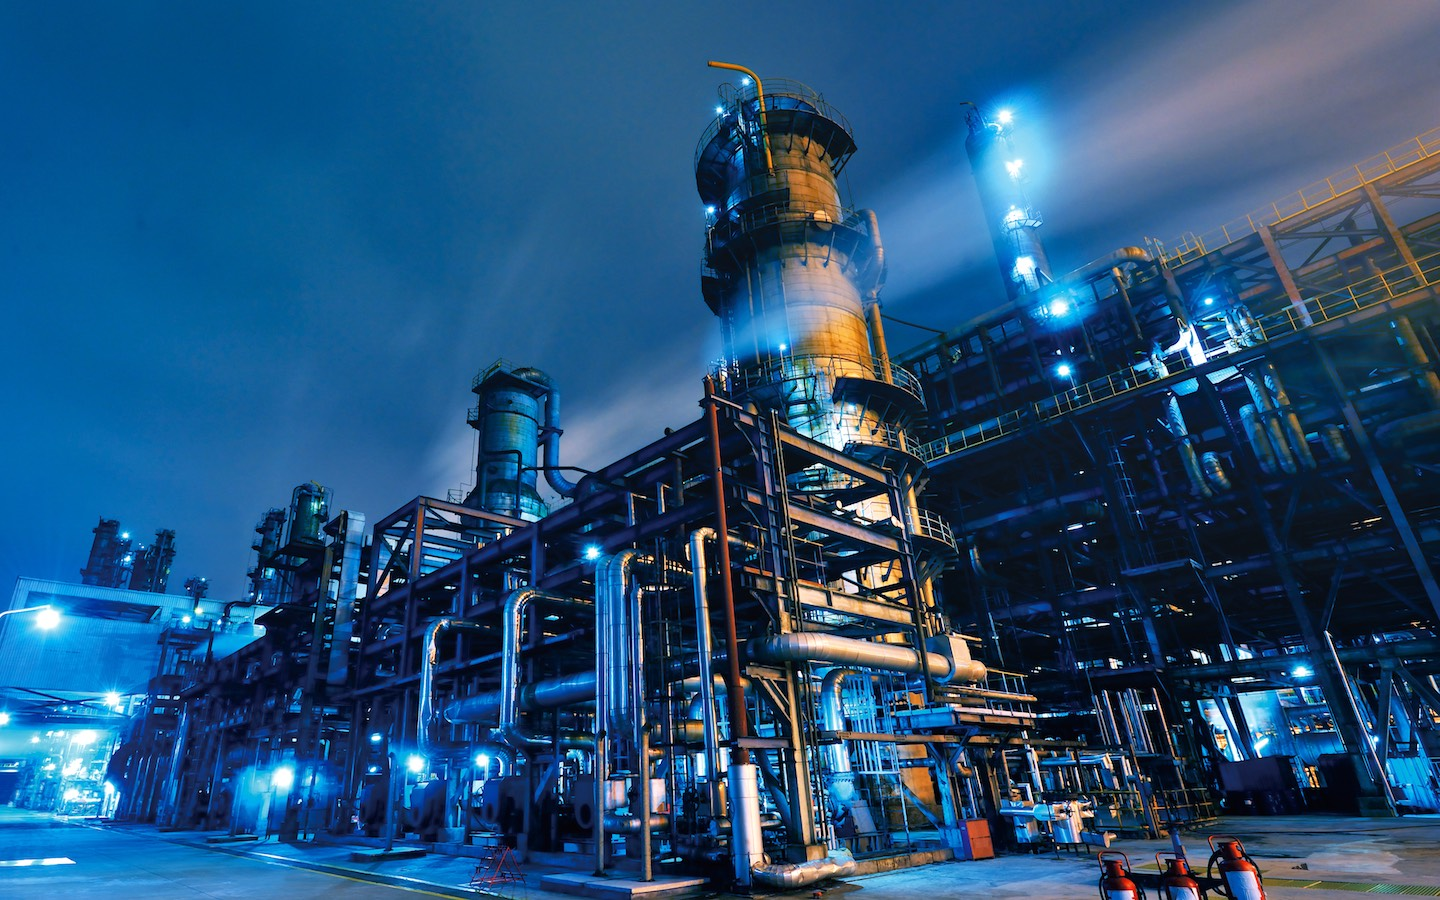
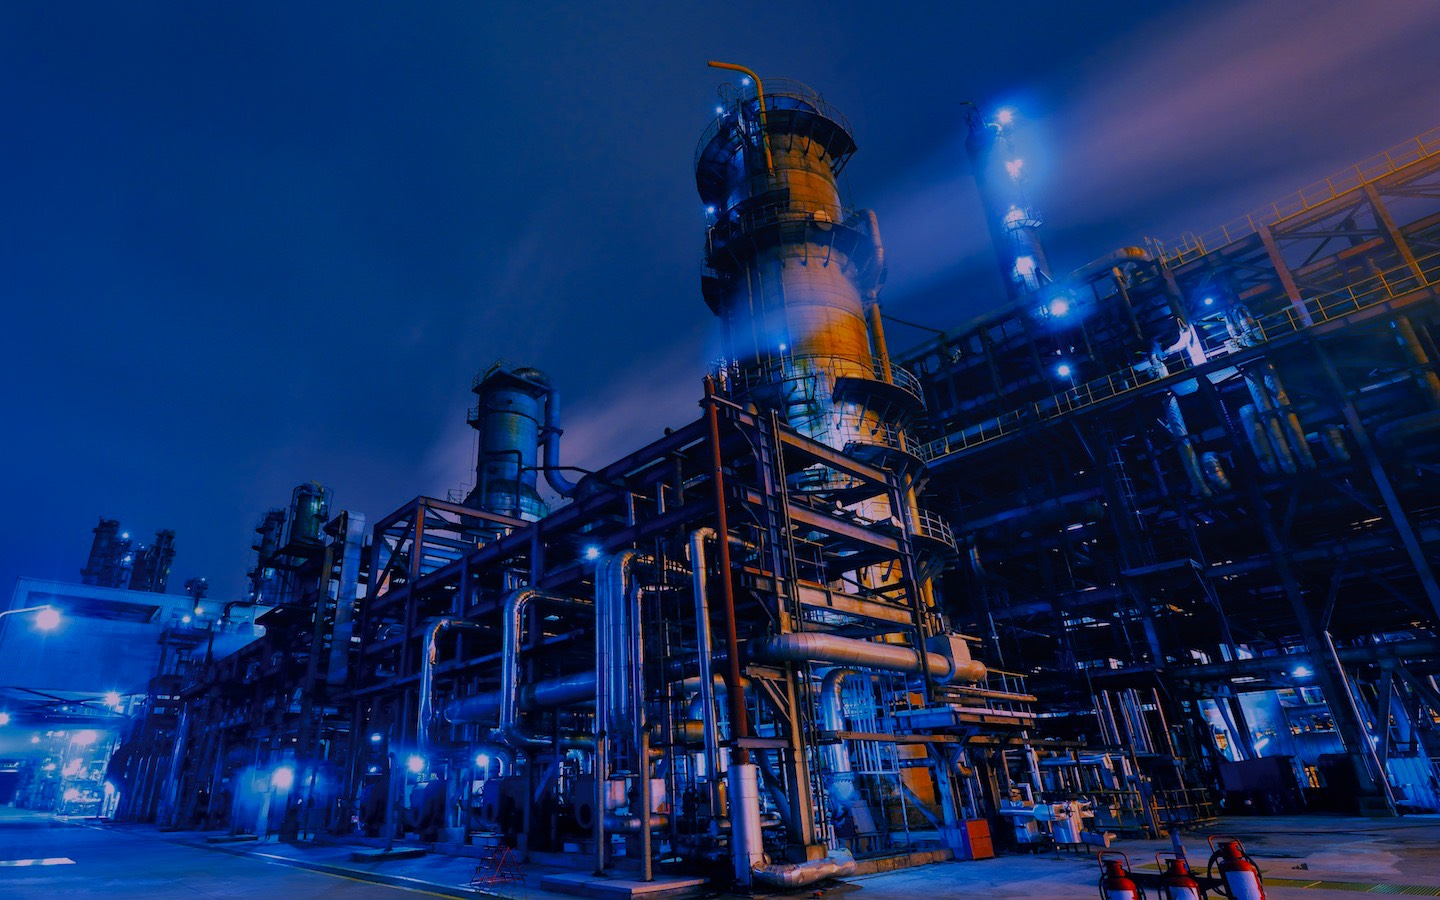
updated background image, added more css to button

diff --git a/client/src/components/styles/contact.css b/client/src/components/styles/contact.css
@@ -1,11 +1,134 @@
+html,
+body,
+div,
+span,
+applet,
+object,
+iframe,
+h1,
+h2,
+h3,
+h4,
+h5,
+h6,
+p,
+blockquote,
+pre,
+a,
+abbr,
+acronym,
+address,
+big,
+cite,
+code,
+del,
+dfn,
+em,
+img,
+ins,
+kbd,
+q,
+s,
+samp,
+small,
+strike,
+strong,
+sub,
+sup,
+tt,
+var,
+b,
+u,
+i,
+center,
+dl,
+dt,
+dd,
+ol,
+ul,
+li,
+fieldset,
+form,
+label,
+legend,
+table,
+caption,
+tbody,
+tfoot,
+thead,
+tr,
+th,
+td,
+article,
+aside,
+canvas,
+details,
+embed,
+figure,
+figcaption,
+footer,
+header,
+hgroup,
+menu,
+nav,
+output,
+ruby,
+section,
+summary,
+time,
+mark,
+audio,
+video {
+  margin: 0;
+  padding: 0;
+  border: 0;
+  font-size: 100%;
+  font: inherit;
+  vertical-align: baseline;
+}
+/* HTML5 display-role reset for older browsers */
+article,
+aside,
+details,
+figcaption,
+figure,
+footer,
+header,
+hgroup,
+menu,
+nav,
+section {
+  display: block;
+}
+body {
+  line-height: 1;
+}
+ol,
+ul {
+  list-style: none;
+}
+blockquote,
+q {
+  quotes: none;
+}
+blockquote:before,
+blockquote:after,
+q:before,
+q:after {
+  content: "";
+  content: none;
+}
+table {
+  border-collapse: collapse;
+  border-spacing: 0;
+}
+
 .wrapper {
   font-family: "Montserrat";
   background-image: url("/lib/contact.jpg");
   background-size: cover;
-  position: center;
-  /* opacity: 0.9; */
   margin: 0 auto;
-  height: 89.5vh;
+  height: 97vh;
   z-index: -10;
 }
 
@@ -58,13 +181,13 @@
 }
 
 .input-information {
-  color: white;
+  color: rgba(255, 255, 255, 1);
   margin-bottom: 0.6vw;
   letter-spacing: 0.2em;
 }
 
 .input-field {
-  background: rgba(255, 255, 255, 0.9);
+  background: rgba(255, 255, 255, 0.8);
   width: 100%;
   border-style: none;
   border-radius: 10px;
@@ -85,7 +208,7 @@
   height: 20vh;
   border-style: none;
   border-radius: 10px;
-  background: rgba(255, 255, 255, 0.9);
+  background: rgba(255, 255, 255, 0.8);
 }
 
 .right-box {
@@ -105,36 +228,6 @@
   letter-spacing: 0;
 }
 
-.send-button {
-  display: inline-flex;
-  background-color: transparent;
-  border-radius: 10px;
-  border: 2px solid #ffffff;
-  cursor: pointer;
-  /* min-width: 250px; */
-  width: 11vw;
-  height: 7vh;
-  color: #ffffff;
-  font-size: 24px;
-  font-family: "Montserrat", sans-serif;
-  margin-left: 20vw;
-  margin-right: 2vw;
-  margin-top: 1.5vw;
-  margin-bottom: 1.5vw;
-}
-
-.button-content {
-  display: inline-flex;
-  flex-direction: row;
-  justify-content: space-between;
-  align-items: center;
-  text-align: center;
-}
-
-.button-message {
-  letter-spacing: 0.2em;
-}
-
 .fa-paper-plane:before {
   content: "\f1d8";
   color: #3e5ba9;
@@ -146,4 +239,26 @@
 .send-button:hover {
   background-color: #ffffff;
   color: #3e5ba9;
+}
+
+.send-button {
+  display: inline-flex;
+  flex-direction: row;
+  justify-content: space-between;
+  background-color: transparent;
+  border: 2px solid #ffffff;
+  height: 7vh;
+  margin-left: 20vw;
+  margin-top: 2vh;
+  margin-bottom: 1.5vh;
+  align-items: center;
+  color: #ffffff;
+  width: 17vw;
+  border-radius: 10px;
+}
+
+.left-content-button {
+  font-family: "Montserrat";
+  font-size: 24px;
+  letter-spacing: 0.2em;
 }

diff --git a/client/src/components/pages/Contact.js b/client/src/components/pages/Contact.js
@@ -64,11 +64,9 @@ export default function Contact() {
           </div>
         </div>
         <button className="send-button">
-          <div className="button-content">
-            <div className="button-message">SEND </div>
-            <div className="button-icon">
-              <i class="far fa-paper-plane"></i>
-            </div>
+          <div className="left-content-button">SEND</div>
+          <div className="right-content-button">
+            <i class="far fa-paper-plane fa-2x"></i>
           </div>
         </button>
       </div>
